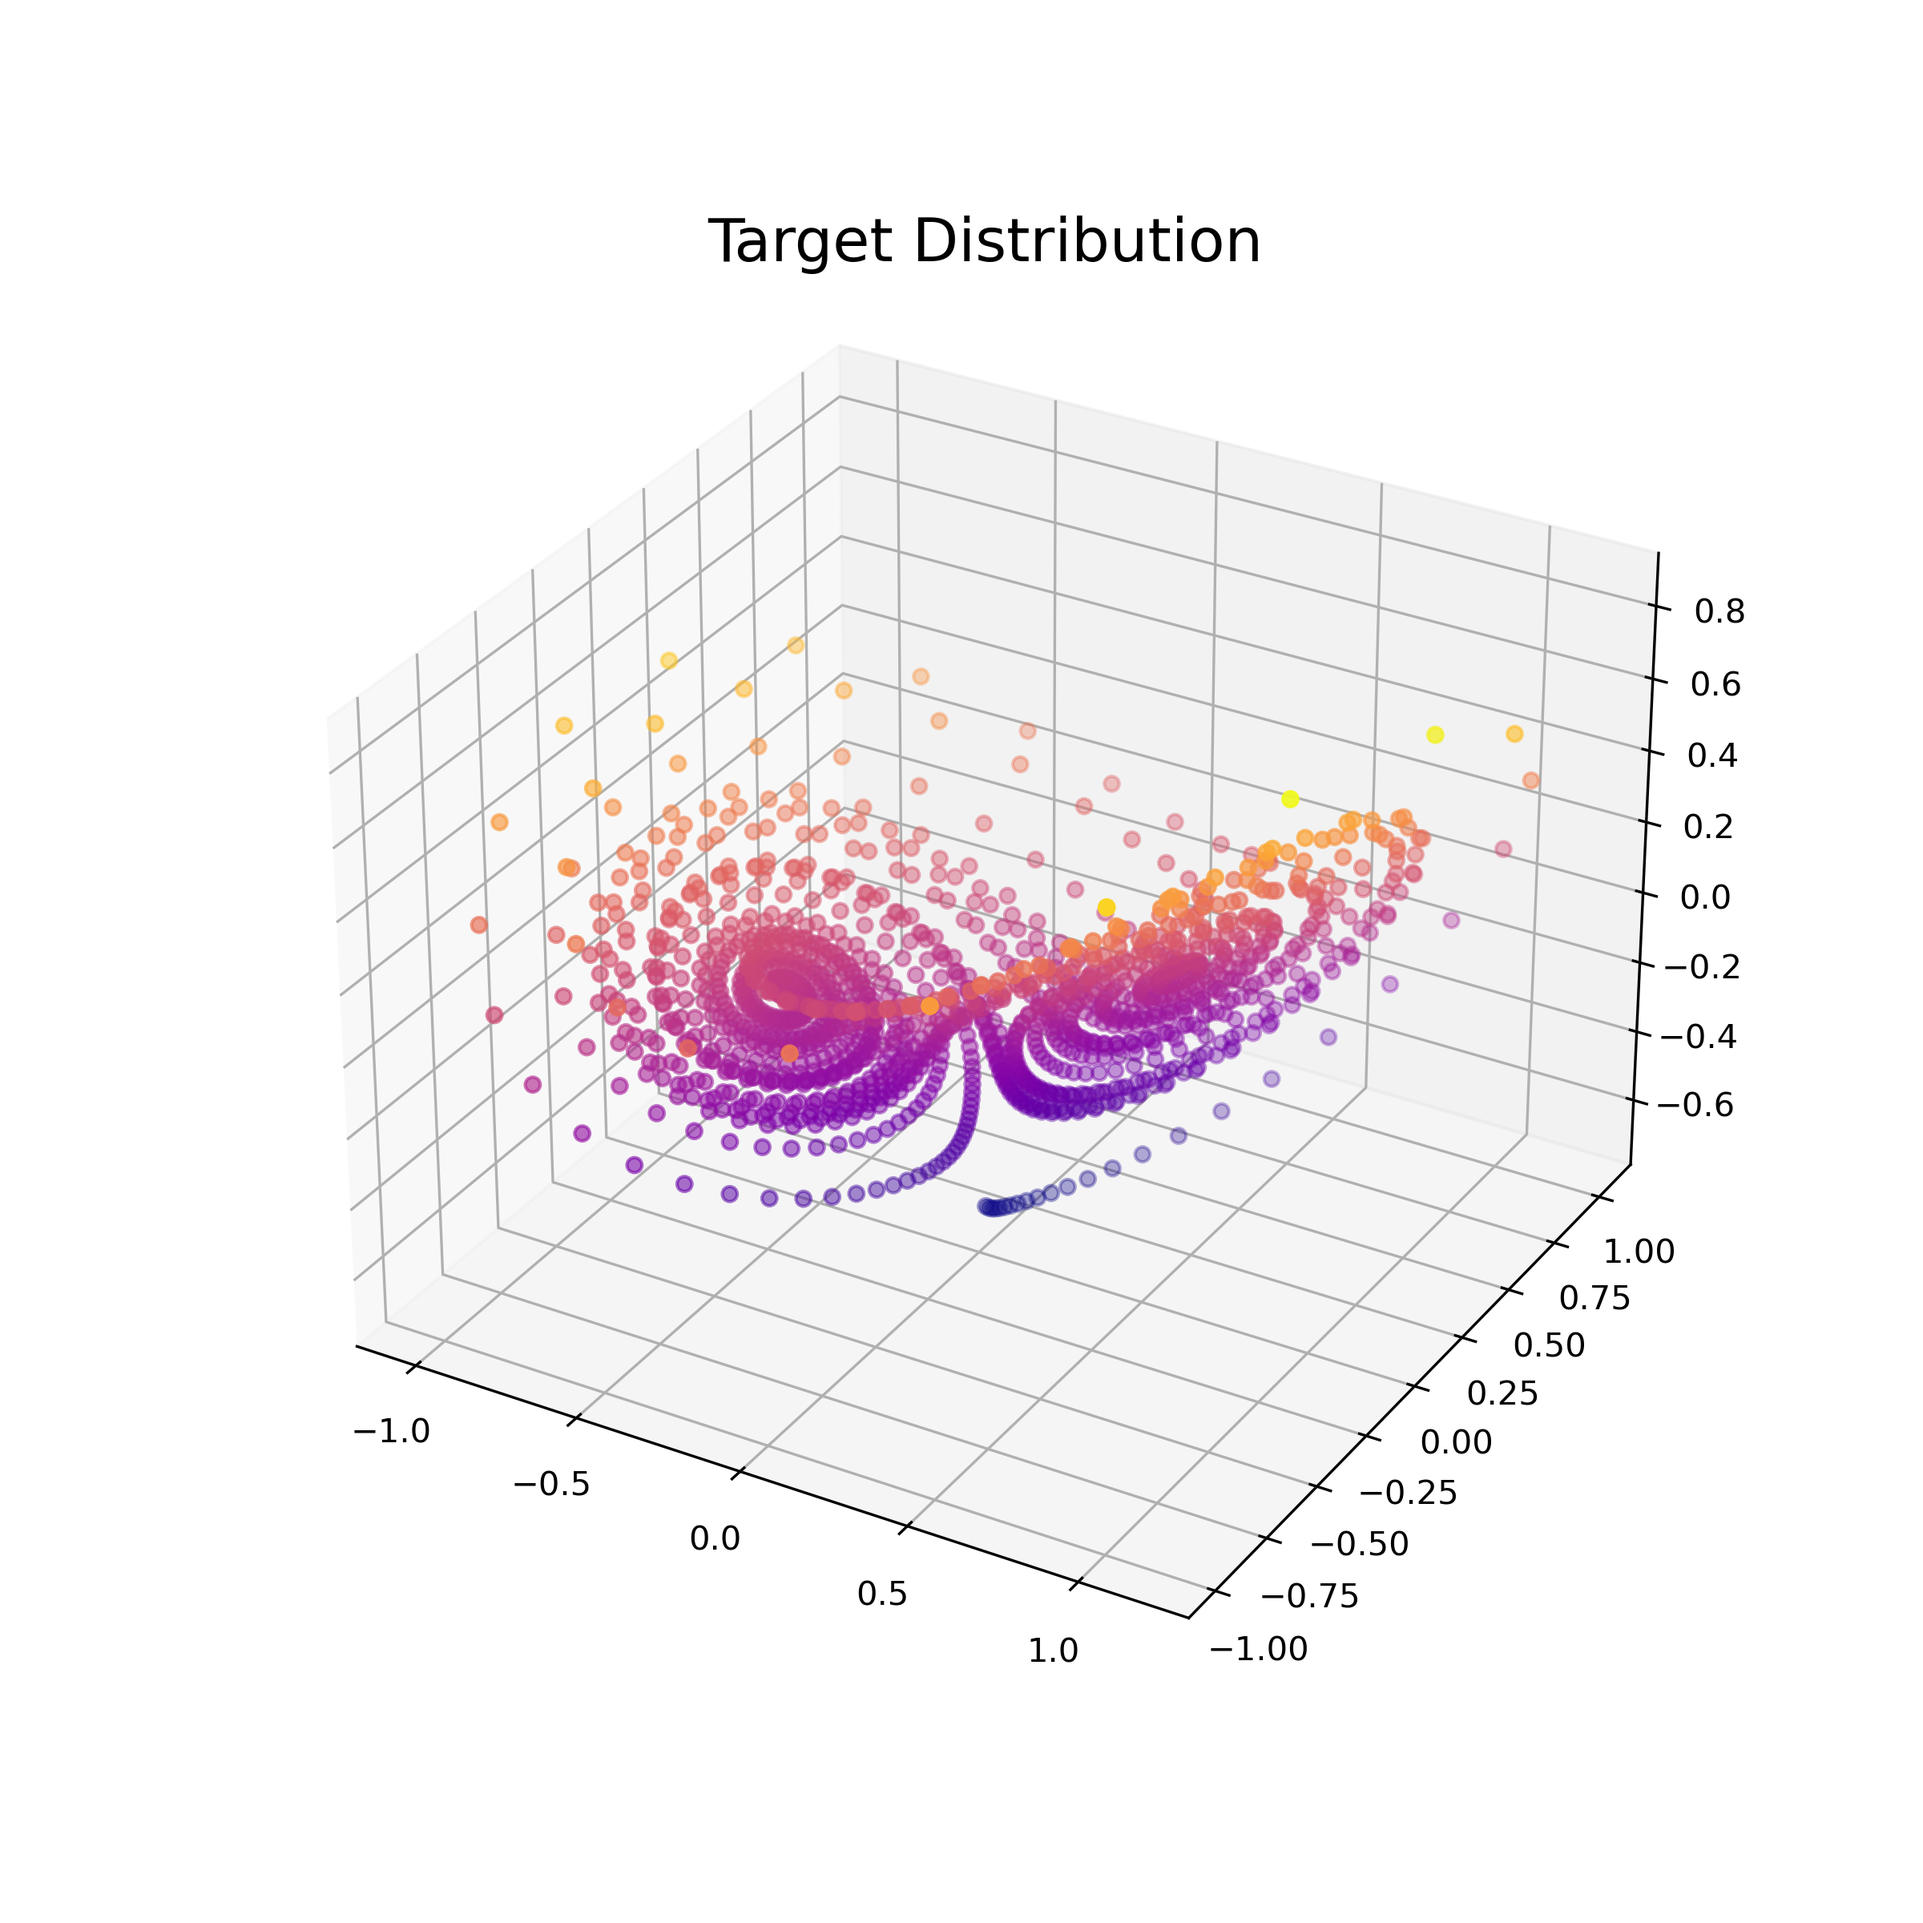
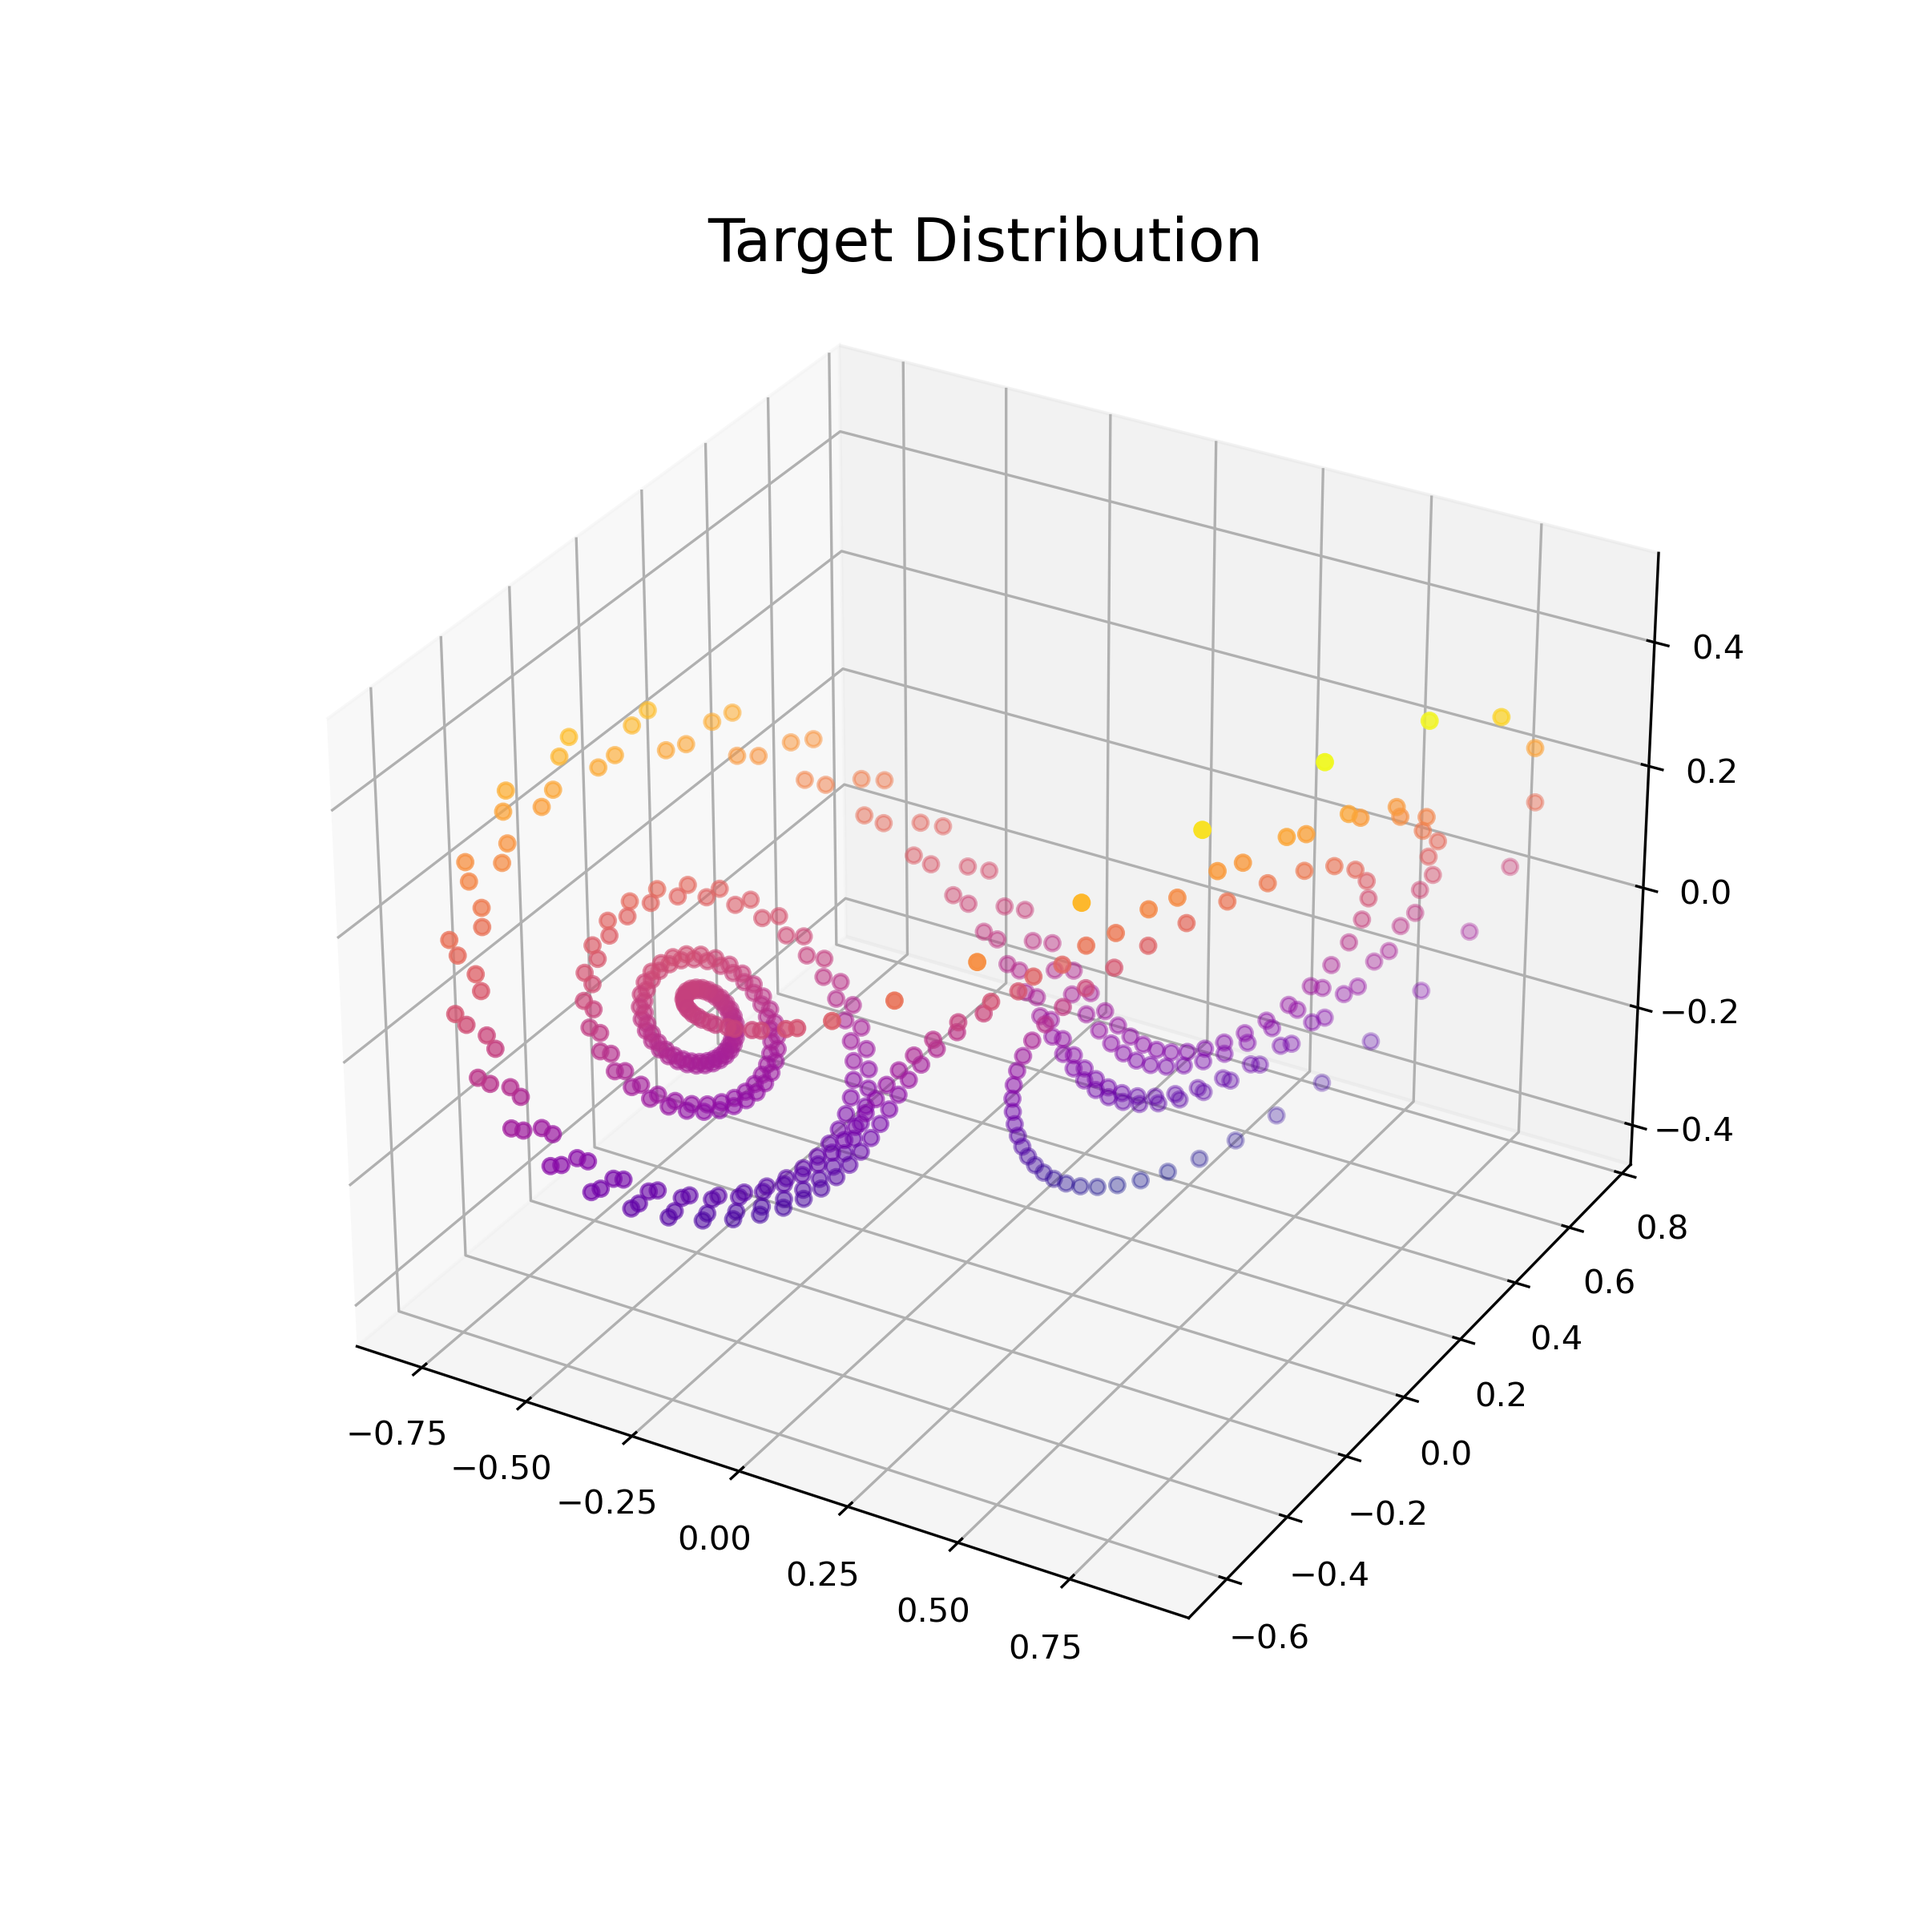
R3 score_matching

diff --git a/mathematics/r3_experiments/r3_score_matching.py b/mathematics/r3_experiments/r3_score_matching.py
@@ -3,7 +3,7 @@ import matplotlib.pyplot as plt
 import torch
 from geomstats._backend import _backend_config as _config
 from omegaconf import OmegaConf
-from scipy.spatial.transform import Rotation
+
 from torch.utils.data import DataLoader
 from tqdm import tqdm
 import numpy as np
@@ -13,7 +13,7 @@ from scipy.stats import wasserstein_distance_nd
 from models.models import MLP
 from lightning.data.framediff.r3_diffuser import R3Diffuser
 torch.manual_seed(0)
-from data.datasets import R3_Dataset, concat_np_features
+from data.datasets import R3_SDE_Dataset, concat_np_features
 
 
 # set up
@@ -37,51 +37,47 @@ plt.show()
 
 # R3 Diffuser
 r3_conf = OmegaConf.load('./config/r3_score_matching.yaml')
-n_timestep = r3_conf.n_timestep
 r3_diffuser = R3Diffuser(r3_conf)
 
 
 # Load Dataset
-trainset = R3Dataset(split="train", name=dataset_name)
-trainloader = DataLoader(trainset, batch_size=32, shuffle=True, num_workers=0)
-testset = R3Dataset(split="test", name=dataset_name)
-testloader = DataLoader(trainset, batch_size=32, shuffle=True, num_workers=0)
+collate_fn = lambda x: concat_np_features(x, add_batch_dim=True)
+
+trainset = R3_SDE_Dataset(split="train", name=dataset_name, r3_diffuser=r3_diffuser)
+trainloader = DataLoader(
+    trainset, batch_size=64, shuffle=True, num_workers=0, collate_fn=collate_fn
+)
+
+
+testset = R3_SDE_Dataset(split="test", name=dataset_name, r3_diffuser=r3_diffuser)
+testloader = DataLoader(
+    trainset, batch_size=64, shuffle=True, num_workers=0, collate_fn=collate_fn
+)
 
 
 
 
-def loss_fn(z_pred, z):
-    # sample noise
-    mse = torch.nn.MSELoss(reduction='sum')
-    loss = mse(z_pred, z)
-    return loss
-
-# Add Noise
-def trans_diffusion(trans_0, t):
-    z = torch.randn_like(trans_0).to(device)
-    # Apply noise
-    trans_t = scheduler.sqrt_alphas_cumprod[t].view(-1, 1, 1) * trans_0 + \
-              scheduler.sqrt_one_minus_alphas_cumprod[t].view(-1, 1, 1) * z
-    return trans_t, z
-
-
-# DDPM Inference
-def inference(model, trans_t, t):
-    # rot_t rotation vector
+'''
+R3 SDE Inference
+'''
+def inference(model, trans_t, t, dt, noise_scale=1.0):
     with torch.no_grad():
-        t_tensor = (t / n_timestep).to(device)
-        input = torch.cat([trans_t, t_tensor[:, None, None]], dim=-1)
+        t_index = t <= r3_conf.min_t
+        t[t_index] = r3_conf.min_t
+        input = torch.cat([trans_t, t[:,None]],dim=-1)
+        trans_score = model(input)
 
-        z_pred = model(input)
-        w_z = (1. - scheduler.alphas[t]) / scheduler.sqrt_one_minus_alphas_cumprod[t]
-        trans_mean = (1. / scheduler.sqrt_alphas[t]).view(-1, 1, 1) * (trans_t - w_z.view(-1, 1, 1) * z_pred)
+        trans_t = trans_t.cpu().numpy()
+        trans_score = trans_score.cpu().numpy()
 
-        trans_z = torch.randn_like(trans_mean).to(device)
-        trans_sigma = scheduler.sqrt_betas[t].view(-1, 1, 1)
-        trans_next = trans_mean + trans_sigma * trans_z
-
-
-    return trans_next
+        trans_t_1 = r3_diffuser.reverse(
+            x_t= trans_t,
+            score_t= trans_score,
+            t=t[0].item(),
+            dt=dt.item(),
+            center=True,
+        )
+    return torch.tensor(trans_t_1).float().to(device)
 
 
 # Main Loop
@@ -93,11 +89,11 @@ def main_loop(model, optimizer, run_idx=0, num_epochs=150, display=True):
     for epoch in tqdm(range(num_epochs)):
         if (epoch % 10) == 0:
             n_test = testset.data.shape[0]
-            traj= torch.randn((n_test, 1, 3)).to(device)
-            steps = range(n_timestep, 0, -1)
-            for t in steps:
-                t = torch.tensor([t]).repeat(n_test)
-                traj = inference(model, traj, t)
+            traj = torch.tensor(r3_diffuser.sample_ref(n_test)).float().to(device)
+            for t in torch.linspace(1, 0, 200):
+                t = torch.tensor([t]).to(device).repeat(n_test).requires_grad_(True)
+                dt = torch.tensor([1 / 200]).to(device)
+                traj = inference(model, traj, t, dt)
             final_traj = traj.squeeze().cpu().numpy()
             test_data = testset.data.squeeze()
             w_d1 = wasserstein_distance_nd(final_traj, test_data)
@@ -110,16 +106,20 @@ def main_loop(model, optimizer, run_idx=0, num_epochs=150, display=True):
             print('wassterstein-1 distance:', w_d1)
 
         # Train Model
-        for _, data in enumerate(trainloader):
-            trans_0 = torch.tensor(data)
-            t = torch.randint(n_timestep, size=(trans_0.shape[0],)) + 1
-            # Apply noise
-            trans_t, z = trans_diffusion(trans_0.to(device), t.to(device))
-            t_tensor = (t / n_timestep).to(device)
-            input = torch.cat([trans_t, t_tensor[:,None,None]],dim=-1).to(device)
-            z_pred = model(input)
-            trans_loss = loss_fn(z_pred, z.to(device))
+        for _, batch in enumerate(trainloader):
+            for key in batch.keys():
+                batch[key] = torch.tensor(batch[key]).to(device)
+            trans_t = batch['trans_t'].float()
+            input = torch.cat([trans_t, batch['t']],dim=-1).float()
+            pred_trans_score = model(input)
+
+
+            trans_mse = (batch['trans_score'].float()- pred_trans_score) ** 2
+            trans_score_scaling = batch['trans_score_scaling']
+            trans_loss = torch.sum(
+                trans_mse / trans_score_scaling[:, None, None] ** 2)
             trans_loss.backward()
+
             optimizer.step()
             losses.append(trans_loss.detach().cpu().numpy())
             optimizer.zero_grad()
@@ -137,7 +137,7 @@ losses_runs = []
 num_runs = 3
 for i in range(num_runs):
     print('doing run ', i)
-    dim = 3  # network ouput is 3 dimensional (rot_vec matrix)
+    dim = 3  # network ouput is 3 dimensional (trans_vec matrix)
     model = MLP(dim=dim, time_varying=True).to(device)
     optimizer = torch.optim.Adam(model.parameters(), lr=1e-3, weight_decay=1e-5)
     model, losses, w1ds, w2ds = main_loop(model, optimizer, run_idx=i, num_epochs=1000, display=True)

diff --git a/mathematics/r3_experiments/data/datasets.py b/mathematics/r3_experiments/data/datasets.py
@@ -42,7 +42,7 @@ def get_split(data, split, seed):
         elif split == "valid":
             data = data[indices[int(n * 0.8) : int(n * 0.9)]]
         elif split == "test":
-            data = data[indices[int(n * 0.7) : ]]
+            data = data[indices[int(n * 0.8) : ]]
             # data = data
     return data
 
@@ -60,13 +60,24 @@ class R3Dataset(Dataset):
 
 
 class R3_SDE_Dataset(Dataset):
-    def __init__(self, root="data", name="lorenz.npy", split="train", seed=12345):
+    def __init__(self, root="data", name="lorenz.npy", r3_diffuser=None, split="train", seed=12345):
         data = np.load(f"{root}/{name}").astype("float32")
         self.data = get_split(data, split, seed)
+        self.r3_diffuser = r3_diffuser
+        self.r3_conf = self.r3_diffuser._r3_conf
 
     def __len__(self):
         return len(self.data)
 
     def __getitem__(self, idx):
-
-        return self.data[idx][None]
+        rng = np.random.default_rng(idx)
+        t = rng.uniform(self.r3_conf.min_t, 1.0)
+        trans_0 = self.data[idx][None]
+        trans_t, trans_score = self.r3_diffuser.forward_marginal(
+            trans_0, t)
+        trans_score_scaling = self.r3_diffuser.score_scaling(t)
+        diff_feat_t = {"t": np.array([t]),
+                       "trans_t": trans_t.squeeze(),
+                       "trans_score": trans_score.squeeze(),
+                       "trans_score_scaling": trans_score_scaling}
+        return diff_feat_t

diff --git a/mathematics/so3_experiments/so3_ddpm.py b/mathematics/so3_experiments/so3_ddpm.py
@@ -1,18 +1,17 @@
 import os
 
 import matplotlib.pyplot as plt
-import torch
 from geomstats._backend import _backend_config as _config
 from omegaconf import OmegaConf
-from scipy.spatial.transform import Rotation
 from torch.utils.data import DataLoader
 from tqdm import tqdm
 
 from data.datasets import DDPM_Dataset
-from mathematics.so3_experiments.models.models import MLP, UMLP
+from mathematics.so3_experiments.models.models import UMLP
 from utils.ddpm_utils import *
 from utils.optimal_transport import so3_wasserstein as wasserstein
 from utils.plotting import plot_so3
+
 torch.manual_seed(0)
 
 os.environ['GEOMSTATS_BACKEND'] = 'pytorch'
